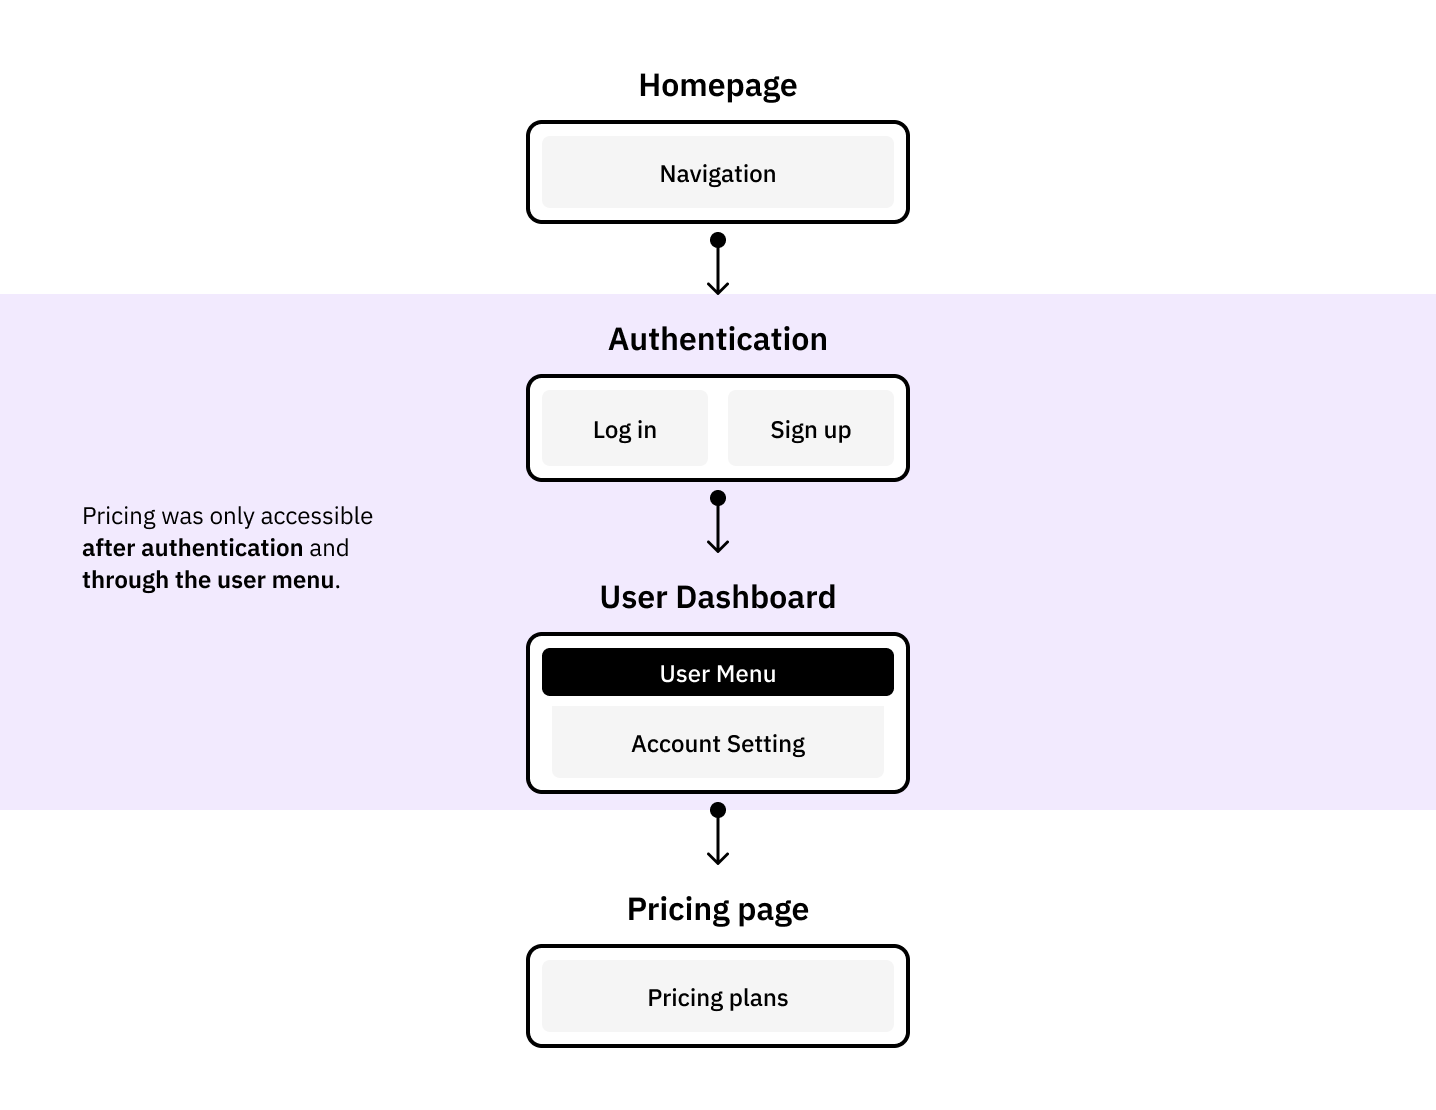
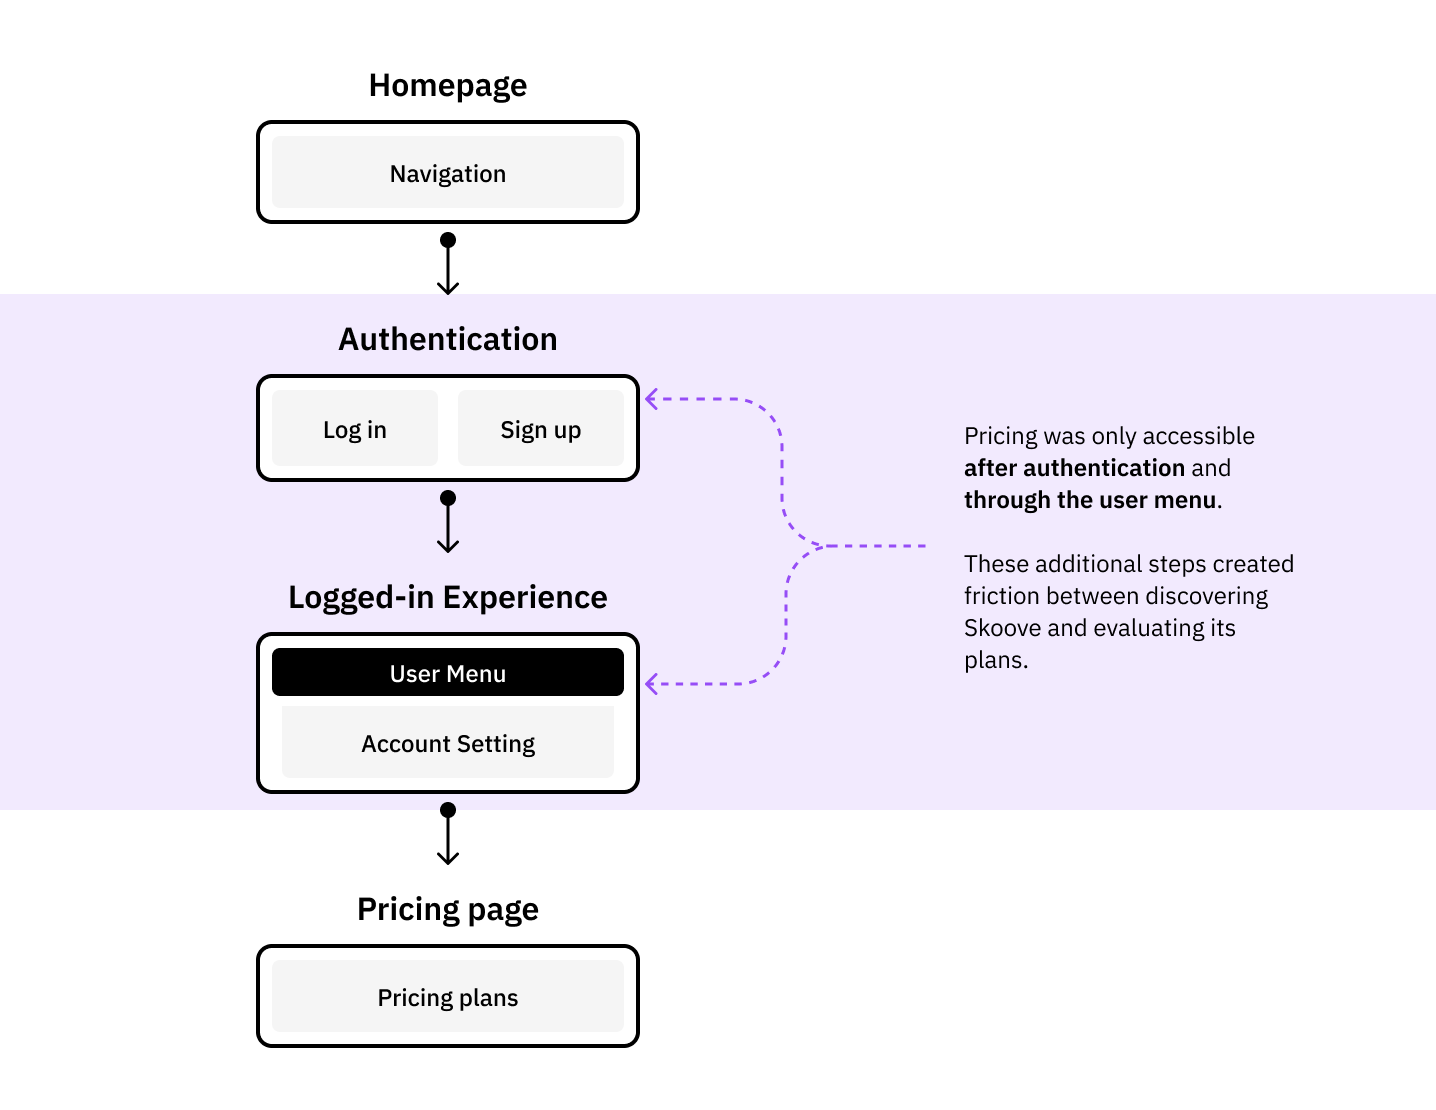
update: update images

diff --git a/public/skoove/index.html b/public/skoove/index.html
@@ -1,5 +1,5 @@
 <!doctype html><html lang=en dir=auto><head><script src="/livereload.js?mindelay=10&amp;v=2&amp;port=1313&amp;path=livereload" data-no-instant defer></script><meta charset=utf-8><meta http-equiv=X-UA-Compatible content="IE=edge"><meta name=viewport content="width=device-width,initial-scale=1,shrink-to-fit=no"><meta name=robots content="noindex, nofollow"><title>From Help Center article to decision-making experience | Verónica De León Hernández</title>
-<meta name=keywords content><meta name=description content="Skoove · Freelance Product Design"><meta name=author content><link rel=canonical href=http://localhost:1313/skoove/><link crossorigin=anonymous href=/assets/css/stylesheet.min.d10e25b67ce10d2e3ab88f6b65627b1e3edafb5dd2099998ecd67e25e0d36b40.css integrity="sha256-0Q4ltnzhDS46uI9rZWJ7Hj7a+13SCZmY7NZ+JeDTa0A=" rel="preload stylesheet" as=style><link rel=icon href=http://localhost:1313/favicon.ico><link rel=apple-touch-icon href=http://localhost:1313/apple-touch-icon.png><link rel=alternate hreflang=en href=http://localhost:1313/skoove/><meta name=twitter:card content="summary_large_image"><meta name=twitter:title content="From Help Center article to decision-making experience | Verónica De León Hernández"><meta name=twitter:description content="Skoove · Freelance Product Design"><meta property="og:title" content="From Help Center article to decision-making experience | Verónica De León Hernández"><meta property="og:description" content="Skoove · Freelance Product Design"><meta property="og:type" content="article"><meta property="og:url" content="http://localhost:1313/skoove/"><meta property="og:image" content="http://localhost:1313/skoove/images/skoove-thumb.png"><meta property="article:section" content="projects"><script type=application/ld+json>{"@context":"https://schema.org","@type":"BreadcrumbList","itemListElement":[{"@type":"ListItem","position":1,"name":"Projects","item":"http://localhost:1313/projects/"},{"@type":"ListItem","position":2,"name":"From Help Center article to decision-making experience","item":"http://localhost:1313/skoove/"}]}</script><script type=application/ld+json>{"@context":"https://schema.org","@type":"BlogPosting","headline":"From Help Center article to decision-making experience | Verónica De León Hernández","name":"From Help Center article to decision-making experience","description":"Skoove · Freelance Product Design","keywords":[],"wordCount":"596","inLanguage":"en","image":"http://localhost:1313/skoove/images/skoove-thumb.png","datePublished":"0001-01-01T00:00:00Z","dateModified":"0001-01-01T00:00:00Z","mainEntityOfPage":{"@type":"WebPage","@id":"http://localhost:1313/skoove/"},"publisher":{"@type":"Organization","name":"Verónica De León Hernández","logo":{"@type":"ImageObject","url":"http://localhost:1313/favicon.ico"}}}</script><meta property="og:title" content="From Help Center article to decision-making experience | Online Portfolio"><meta property="og:description" content="I’m Verónica, a Multidisciplinary Product Designer with 7+ years of experience crafting intuitive, impactful experiences. I bring together design, code, and strategy to turn ideas into real, meaningful products — using tools like JavaScript, Python, and modern web tech."><meta property="og:type" content="website"><meta property="og:url" content="http://localhost:1313/skoove/"><meta property="og:image" content="http://localhost:1313/images/og-image.jpg"><link rel=preconnect href=https://fonts.googleapis.com><link rel=preconnect href=https://fonts.gstatic.com crossorigin><link href="https://fonts.googleapis.com/css2?family=IBM+Plex+Mono:ital,wght@0,100;0,200;0,300;0,400;0,500;0,600;0,700;1,100;1,200;1,300;1,400;1,500;1,600;1,700&family=IBM+Plex+Sans:ital,wght@0,100;0,200;0,300;0,400;0,500;0,600;0,700;1,100;1,200;1,300;1,400;1,500;1,600;1,700&display=swap" rel=stylesheet><noscript><style>#theme-toggle,.top-link{display:none}</style><style>@media(prefers-color-scheme:dark){:root{--theme:rgb(29, 30, 32);--entry:rgb(46, 46, 51);--primary:rgb(218, 218, 219);--secondary:rgb(155, 156, 157);--tertiary-bg:rgb(65, 66, 68);--content:rgb(196, 196, 197);--code-bg:rgb(55, 56, 62);--border:rgb(51, 51, 51)}.list-page{background:var(--theme)}.list-page:not(.dark)::-webkit-scrollbar-track{background:0 0}.list-page:not(.dark)::-webkit-scrollbar-thumb{border-color:var(--theme)}}</style></noscript><script async src="https://www.googletagmanager.com/gtag/js?id=G-LQZ77WLF6C"></script><script>var dnt,doNotTrack=!1;if(!1&&(dnt=navigator.doNotTrack||window.doNotTrack||navigator.msDoNotTrack,doNotTrack=dnt=="1"||dnt=="yes"),!doNotTrack){window.dataLayer=window.dataLayer||[];function gtag(){dataLayer.push(arguments)}gtag("js",new Date),gtag("config","G-LQZ77WLF6C")}</script></head><body class="type-projects kind-page layout-skoove" id=" top"><script data-no-instant>function switchTheme(e){switch(e){case"light":document.body.classList.remove("dark");break;case"dark":document.body.classList.add("dark");break;default:window.matchMedia("(prefers-color-scheme: dark)").matches&&document.body.classList.add("dark")}}function isDarkTheme(){return document.body.className.includes("dark")}function getPrefTheme(){return localStorage.getItem("pref-theme")}function setPrefTheme(e){switchTheme(e),localStorage.setItem("pref-theme",e)}const toggleThemeCallbacks={};toggleThemeCallbacks.main=e=>{setPrefTheme(e?"light":"dark")},window.addEventListener("toggle-theme",function(){const e=isDarkTheme();for(const t in toggleThemeCallbacks)toggleThemeCallbacks[t](e)});function toggleThemeListener(){window.dispatchEvent(new CustomEvent("toggle-theme"))}</script><script>(function(){const t="light",e=getPrefTheme(),n=e||t;switchTheme(n)})()</script><header class=header><nav class=nav><div class=logo><a href=http://localhost:1313/ accesskey=h title="Verónica De León Hernández (Alt + H)">Verónica De León Hernández</a>
-<span class=logo-switches></span></div><ul id=menu><li><a href=http://localhost:1313/ title=Work>Work</a></li><li><a href=http://localhost:1313/about/ title=About>About</a></li><li><a href=https://www.linkedin.com/in/veronicadeleonh/ title=Contact>Contact</a></li></ul></nav></header><main class="main post"><article class=post-single><header class=post-header><h1 class=post-title>From Help Center article to decision-making experience</h1><div class=post-meta></div></header><div class="toc side right"><details open><summary accesskey=c title="(Alt + C)"><span class=details>Table of Contents</span></summary><div class=inner><ul><li><a href=#context aria-label=Context>Context</a></li><li><a href=# aria-label="Pricing existed,but the pricing experience didn't">Pricing existed,</br>but the pricing experience didn't</a></li><li><a href=#designing-for-discovery-and-decision-making aria-label="Designing for discovery and decision-making">Designing for discovery and decision-making</a></li><li><a href=#a-pricing-page-is-more-than-pricing aria-label="A pricing page is more than pricing">A pricing page is more than pricing</a></li><li><a href=#extending-the-design-system aria-label="Extending the design system">Extending the design system</a></li><li><a href=#notes aria-label=Notes>Notes</a></li></ul></div></details></div><div class=post-content><div class=intro-info><p><span class="tag blue text-blue">e-learning</span></p><p class=intro-description>Working closely with marketing stakeholders, I helped transform pricing information into a dedicated decision-making experience for future learners, balancing discoverability, content strategy and conversion goals.</p><div class=intro-details-wrapper><p class="intro-details no-margin-bottom"><span class=fi style=background-image:url(/images/mouse.svg)></span> Senior Product Designer</p><p class="intro-details no-margin-bottom"><span class=fi style=background-image:url(/images/globe.svg)></span> Freelance Project</p><p class="intro-details no-margin-bottom"><span class=fi style=background-image:url(/images/calendar.svg)></span> 2026</p></div></div><p><img loading=lazy src=/skoove/images/skoove-intro.png type alt="Skoove pricing page — hero section"></p><h3 id=context>Context<a hidden class=anchor aria-hidden=true href=#context>¶</a></h3><p>As part of a freelance project for Skoove, I worked on designing a dedicated pricing experience for web visitors. At the time, pricing information for <strong>logged-out users</strong> was primarily accessible through a <strong>Help Center article</strong>. While existing customers could view subscription options after signing in, prospective users had limited visibility into plans, pricing and subscription benefits directly on the website.</p><p>This created an interesting gap between <strong>discovery</strong> and <strong>decision-making</strong>. Users could find Skoove through search engines, articles and marketing pages, but understanding the value of a subscription often required additional steps before reaching the actual purchase flow.</p><a href=images/skoove-context.png class=lightbox><img src=images/skoove-context.png alt="Side-by-side comparison of the logged-in pricing page and the Help Center article for logged-out users"></a><p class=photo-footnote>Side-by-side comparison of the existing pricing page available to logged-in users without a premium subscription and the Help Center pricing article (logged-out experience).</p><hr><h3>Pricing existed,</br>but the pricing experience didn't</h3><p>One of the first things I mapped was the journey for non-premium users. Accessing subscription plans required <strong>creating an account, signing in</strong> and navigating through several screens before reaching the pricing interface.</p><p>At the same time, many visitors arriving from Google were landing on a Help Center article listing prices as plain text. The information was technically available, but the experience lacked <strong>context, comparison, trust signals</strong> and clear paths forward.</p><a href=images/skoove-flow-before.png class=lightbox><img src=images/skoove-flow-before.png alt="User flow showing how non-premium users navigated from landing page to subscription purchase"></a><p class=photo-footnote>Current user flow showing how non-premium users navigated from landing page to subscription purchase.</p><div class="box-notes yellow-background yellow-border" style=margin-bottom:var(--space-4)>One of the most impactful changes was also one of the simplest: introducing a dedicated <strong>Pricing entry</strong> in the <strong>website navigation</strong>, making subscription information accessible without requiring users to create an account first.</div><hr><h3 id=designing-for-discovery-and-decision-making>Designing for discovery and decision-making<a hidden class=anchor aria-hidden=true href=#designing-for-discovery-and-decision-making>¶</a></h3><p>The goal was not simply to create a pricing page. The page needed to serve multiple purposes at once:</p><ul><li>Help visitors understand Skoove's plans and subscription options.</li><li>Communicate value beyond price alone.</li><li>Answer common objections before purchase.</li><li>Improve discoverability through SEO and emerging AI-powered search experiences.</li><li>Create a clearer path from interest to trial.</li></ul><p>This shifted the project from being a <strong>pricing exercise</strong> into a broader <strong>information architecture challenge</strong>.</p><hr><h3 id=a-pricing-page-is-more-than-pricing>A pricing page is more than pricing<a hidden class=anchor aria-hidden=true href=#a-pricing-page-is-more-than-pricing>¶</a></h3><p>Many of the design decisions focused on <strong>reducing uncertainty</strong>.</p><p><strong>Plan comparisons</strong>, <strong>benefit-oriented content</strong>, <strong>social proof</strong> and <strong>FAQs</strong> were introduced to address common questions before they became blockers.</p><p>The project also explored how <strong>visual storytelling</strong> could support the messaging. Early concepts for the feature illustrations were developed as part of the design process, helping communicate the learning experience beyond pricing alone. The final artwork was later refined by Skoove&rsquo;s in-house design team.</p><p>The page became less about displaying <strong>subscription tiers</strong> and more about helping visitors make an <strong>informed decision</strong>.</p><a href=images/skoove-early-explorations.png class=lightbox><img src=images/skoove-early-explorations.png alt="Early layout explorations and annotated design iterations for the Skoove pricing page"></a><p class=photo-footnote>Early layout explorations, marketing proposals and annotated design iterations showing how the page structure evolved.</p><a href=images/skoove-final.png class=lightbox><img src=images/skoove-final.png alt="Final Skoove pricing page design showing plan comparison, benefits, FAQs and conversion sections"></a><p class=photo-footnote>Final pricing page design highlighting plan comparison, benefits, FAQs and conversion-focused sections.</p><hr><h3 id=extending-the-design-system>Extending the design system<a hidden class=anchor aria-hidden=true href=#extending-the-design-system>¶</a></h3><p>The project introduced several <strong>new web components</strong> and required updates to existing navigation patterns. These changes were later incorporated into the <strong>Web UI Kit</strong>, helping establish more consistent experiences across marketing and product-related pages.</p><a href=images/skoove-web-ui-kit.png class=lightbox><img src=images/skoove-web-ui-kit.png alt="New components created for the Skoove pricing project and integrated into the Web UI Kit"></a><p class=photo-footnote>New components created for the project and later integrated into the Web UI Kit.</p><hr><h3 id=notes>Notes<a hidden class=anchor aria-hidden=true href=#notes>¶</a></h3><p>One of the most interesting aspects of this project was seeing how closely content, <strong>discoverability</strong> and <strong>product design</strong> intersect. The challenge wasn&rsquo;t creating a new subscription system, but making an existing one easier to find, understand and trust.</p><a href=images/skoove-navigation.png class=lightbox><img src=images/skoove-navigation.png alt="Before-and-after comparison of the website navigation showing the new Pricing entry"></a><p class=photo-footnote>Before-and-after view of the website navigation showing the introduction of the Pricing entry.</p><p>Sometimes the challenge is not designing a new feature. It&rsquo;s making an existing experience easier to find, understand and trust.</p></div><footer class=post-footer><nav class=paginav><a class=next href=http://localhost:1313/mondly/><span class=title>Next Project
+<meta name=keywords content><meta name=description content="Skoove · Freelance Product Design"><meta name=author content><link rel=canonical href=http://localhost:1313/skoove/><link crossorigin=anonymous href=/assets/css/stylesheet.min.d10e25b67ce10d2e3ab88f6b65627b1e3edafb5dd2099998ecd67e25e0d36b40.css integrity="sha256-0Q4ltnzhDS46uI9rZWJ7Hj7a+13SCZmY7NZ+JeDTa0A=" rel="preload stylesheet" as=style><link rel=icon href=http://localhost:1313/favicon.ico><link rel=apple-touch-icon href=http://localhost:1313/apple-touch-icon.png><link rel=alternate hreflang=en href=http://localhost:1313/skoove/><meta name=twitter:card content="summary_large_image"><meta name=twitter:title content="From Help Center article to decision-making experience | Verónica De León Hernández"><meta name=twitter:description content="Skoove · Freelance Product Design"><meta property="og:title" content="From Help Center article to decision-making experience | Verónica De León Hernández"><meta property="og:description" content="Skoove · Freelance Product Design"><meta property="og:type" content="article"><meta property="og:url" content="http://localhost:1313/skoove/"><meta property="og:image" content="http://localhost:1313/skoove/images/skoove-thumb.png"><meta property="article:section" content="projects"><script type=application/ld+json>{"@context":"https://schema.org","@type":"BreadcrumbList","itemListElement":[{"@type":"ListItem","position":1,"name":"Projects","item":"http://localhost:1313/projects/"},{"@type":"ListItem","position":2,"name":"From Help Center article to decision-making experience","item":"http://localhost:1313/skoove/"}]}</script><script type=application/ld+json>{"@context":"https://schema.org","@type":"BlogPosting","headline":"From Help Center article to decision-making experience | Verónica De León Hernández","name":"From Help Center article to decision-making experience","description":"Skoove · Freelance Product Design","keywords":[],"wordCount":"597","inLanguage":"en","image":"http://localhost:1313/skoove/images/skoove-thumb.png","datePublished":"0001-01-01T00:00:00Z","dateModified":"0001-01-01T00:00:00Z","mainEntityOfPage":{"@type":"WebPage","@id":"http://localhost:1313/skoove/"},"publisher":{"@type":"Organization","name":"Verónica De León Hernández","logo":{"@type":"ImageObject","url":"http://localhost:1313/favicon.ico"}}}</script><meta property="og:title" content="From Help Center article to decision-making experience | Online Portfolio"><meta property="og:description" content="I’m Verónica, a Multidisciplinary Product Designer with 7+ years of experience crafting intuitive, impactful experiences. I bring together design, code, and strategy to turn ideas into real, meaningful products — using tools like JavaScript, Python, and modern web tech."><meta property="og:type" content="website"><meta property="og:url" content="http://localhost:1313/skoove/"><meta property="og:image" content="http://localhost:1313/images/og-image.jpg"><link rel=preconnect href=https://fonts.googleapis.com><link rel=preconnect href=https://fonts.gstatic.com crossorigin><link href="https://fonts.googleapis.com/css2?family=IBM+Plex+Mono:ital,wght@0,100;0,200;0,300;0,400;0,500;0,600;0,700;1,100;1,200;1,300;1,400;1,500;1,600;1,700&family=IBM+Plex+Sans:ital,wght@0,100;0,200;0,300;0,400;0,500;0,600;0,700;1,100;1,200;1,300;1,400;1,500;1,600;1,700&display=swap" rel=stylesheet><noscript><style>#theme-toggle,.top-link{display:none}</style><style>@media(prefers-color-scheme:dark){:root{--theme:rgb(29, 30, 32);--entry:rgb(46, 46, 51);--primary:rgb(218, 218, 219);--secondary:rgb(155, 156, 157);--tertiary-bg:rgb(65, 66, 68);--content:rgb(196, 196, 197);--code-bg:rgb(55, 56, 62);--border:rgb(51, 51, 51)}.list-page{background:var(--theme)}.list-page:not(.dark)::-webkit-scrollbar-track{background:0 0}.list-page:not(.dark)::-webkit-scrollbar-thumb{border-color:var(--theme)}}</style></noscript><script async src="https://www.googletagmanager.com/gtag/js?id=G-LQZ77WLF6C"></script><script>var dnt,doNotTrack=!1;if(!1&&(dnt=navigator.doNotTrack||window.doNotTrack||navigator.msDoNotTrack,doNotTrack=dnt=="1"||dnt=="yes"),!doNotTrack){window.dataLayer=window.dataLayer||[];function gtag(){dataLayer.push(arguments)}gtag("js",new Date),gtag("config","G-LQZ77WLF6C")}</script></head><body class="type-projects kind-page layout-skoove" id=" top"><script data-no-instant>function switchTheme(e){switch(e){case"light":document.body.classList.remove("dark");break;case"dark":document.body.classList.add("dark");break;default:window.matchMedia("(prefers-color-scheme: dark)").matches&&document.body.classList.add("dark")}}function isDarkTheme(){return document.body.className.includes("dark")}function getPrefTheme(){return localStorage.getItem("pref-theme")}function setPrefTheme(e){switchTheme(e),localStorage.setItem("pref-theme",e)}const toggleThemeCallbacks={};toggleThemeCallbacks.main=e=>{setPrefTheme(e?"light":"dark")},window.addEventListener("toggle-theme",function(){const e=isDarkTheme();for(const t in toggleThemeCallbacks)toggleThemeCallbacks[t](e)});function toggleThemeListener(){window.dispatchEvent(new CustomEvent("toggle-theme"))}</script><script>(function(){const t="light",e=getPrefTheme(),n=e||t;switchTheme(n)})()</script><header class=header><nav class=nav><div class=logo><a href=http://localhost:1313/ accesskey=h title="Verónica De León Hernández (Alt + H)">Verónica De León Hernández</a>
+<span class=logo-switches></span></div><ul id=menu><li><a href=http://localhost:1313/ title=Work>Work</a></li><li><a href=http://localhost:1313/about/ title=About>About</a></li><li><a href=https://www.linkedin.com/in/veronicadeleonh/ title=Contact>Contact</a></li></ul></nav></header><main class="main post"><article class=post-single><header class=post-header><h1 class=post-title>From Help Center article to decision-making experience</h1><div class=post-meta></div></header><div class="toc side right"><details open><summary accesskey=c title="(Alt + C)"><span class=details>Table of Contents</span></summary><div class=inner><ul><li><a href=#context aria-label=Context>Context</a></li><li><a href=# aria-label="Pricing existed,but the pricing experience didn't">Pricing existed,</br>but the pricing experience didn't</a></li><li><a href=#designing-for-discovery-and-decision-making aria-label="Designing for discovery and decision-making">Designing for discovery and decision-making</a></li><li><a href=#a-pricing-page-is-more-than-pricing aria-label="A pricing page is more than pricing">A pricing page is more than pricing</a></li><li><a href=#extending-the-design-system aria-label="Extending the design system">Extending the design system</a></li><li><a href=#notes aria-label=Notes>Notes</a></li></ul></div></details></div><div class=post-content><div class=intro-info><p><span class="tag blue text-blue">e-learning</span></p><p class=intro-description>Working closely with marketing stakeholders, I helped transform pricing information into a dedicated decision-making experience for future learners, balancing discoverability, content strategy and conversion goals.</p><div class=intro-details-wrapper><p class="intro-details no-margin-bottom"><span class=fi style=background-image:url(/images/mouse.svg)></span> Senior Product Designer</p><p class="intro-details no-margin-bottom"><span class=fi style=background-image:url(/images/globe.svg)></span> Freelance Project</p><p class="intro-details no-margin-bottom"><span class=fi style=background-image:url(/images/calendar.svg)></span> 2026</p></div></div><p><img loading=lazy src=/skoove/images/skoove-intro.png type alt="Skoove pricing page — hero section"></p><h3 id=context>Context<a hidden class=anchor aria-hidden=true href=#context>¶</a></h3><p>As part of a freelance project for Skoove, I worked on designing a dedicated pricing experience for web visitors. At the time, pricing information for <strong>logged-out users</strong> was primarily accessible through a <strong>Help Center article</strong>. While existing customers could view subscription options after signing in, prospective users had limited visibility into plans, pricing and subscription benefits directly on the website.</p><p>This created an interesting gap between <strong>discovery</strong> and <strong>decision-making</strong>. Users could find Skoove through search engines, articles and marketing pages, but understanding the value of a subscription often required additional steps before reaching the actual purchase flow.</p><a href=images/skoove-context.png class=lightbox><img src=images/skoove-context.png alt="Side-by-side comparison of the logged-in pricing page and the Help Center article for logged-out users"></a><p class=photo-footnote>Side-by-side comparison of the existing pricing page available to logged-in users without a premium subscription and the Help Center pricing article (logged-out experience).</p><hr><h3>Pricing existed,</br>but the pricing experience didn't</h3><p>One of the first things I mapped was the journey for non-premium users. Accessing subscription plans required <strong>creating an account, signing in</strong> and navigating through several screens before reaching the pricing interface.</p><p>At the same time, many visitors arriving from Google were landing on a Help Center article listing prices as plain text. The information was technically available, but the experience lacked <strong>context, comparison, trust signals</strong> and clear paths forward.</p><a href=images/skoove-flow-before.png class=lightbox><img src=images/skoove-flow-before.png alt="User flow showing how non-premium users navigated from landing page to subscription purchase"></a><p class=photo-footnote>Current user flow showing how non-premium users navigated from landing page to subscription purchase.</p><div class="box-notes yellow-background yellow-border" style=margin-bottom:var(--space-4)>One of the most impactful changes was also one of the simplest: introducing a dedicated <strong>Pricing entry</strong> in the <strong>website navigation</strong>, making subscription information accessible without requiring users to create an account first.</div><hr><h3 id=designing-for-discovery-and-decision-making>Designing for discovery and decision-making<a hidden class=anchor aria-hidden=true href=#designing-for-discovery-and-decision-making>¶</a></h3><p>The goal was not simply to create a pricing page. The page needed to serve multiple purposes at once:</p><ul><li>Help visitors understand Skoove's plans and subscription options.</li><li>Communicate value beyond price alone.</li><li>Answer common objections before purchase.</li><li>Improve discoverability through SEO and emerging AI-powered search experiences.</li><li>Create a clearer path from interest to trial.</li></ul><p>This shifted the project from being a <strong>pricing exercise</strong> into a broader <strong>information architecture challenge</strong>.</p><hr><h3 id=a-pricing-page-is-more-than-pricing>A pricing page is more than pricing<a hidden class=anchor aria-hidden=true href=#a-pricing-page-is-more-than-pricing>¶</a></h3><p>Many of the design decisions focused on <strong>reducing uncertainty</strong>.</p><p><strong>Plan comparisons</strong>, <strong>benefit-oriented content</strong>, <strong>social proof</strong> and <strong>FAQs</strong> were introduced to address common questions before they became blockers.</p><p>The project also explored how <strong>visual storytelling</strong> could support the messaging. Early concepts for the feature illustrations were developed as part of the design process, helping communicate the learning experience beyond pricing alone. The final artwork was later refined by Skoove&rsquo;s in-house design team.</p><p>The page became less about displaying <strong>subscription tiers</strong> and more about helping visitors make an <strong>informed decision</strong>.</p><a href=images/skoove-early-explorations.png class=lightbox><img src=images/skoove-early-explorations.png alt="Early layout explorations and annotated design iterations for the Skoove pricing page"></a><p class=photo-footnote>Early layout explorations, marketing proposals and annotated design iterations showing how the page structure evolved.</p><a href=images/skoove-final.png class=lightbox><img src=images/skoove-final.png alt="Final Skoove pricing page design showing plan comparison, benefits, FAQs and conversion sections"></a><p class=photo-footnote>Final pricing page design highlighting plan comparison, benefits, FAQs and conversion-focused sections.</p><hr><h3 id=extending-the-design-system>Extending the design system<a hidden class=anchor aria-hidden=true href=#extending-the-design-system>¶</a></h3><p>The project introduced several <strong>new web components</strong> and required updates to existing navigation patterns. These changes were later incorporated into the <strong>Web UI Kit</strong>, helping establish more consistent experiences across marketing and product-related pages.</p><a href=images/skoove-web-ui-kit.png class=lightbox><img src=images/skoove-web-ui-kit.png alt="New components created for the Skoove pricing project and integrated into the Web UI Kit"></a><p class=photo-footnote>New components created for the project and later integrated into the Web UI Kit.</p><hr><h3 id=notes>Notes<a hidden class=anchor aria-hidden=true href=#notes>¶</a></h3><p>One of the most interesting aspects of this project was seeing how closely content, <strong>discoverability</strong> and <strong>product design</strong> intersect. The challenge wasn&rsquo;t creating a new subscription system, but making an existing one easier to find, understand and trust.</p><a href=images/skoove-navigation.png class=lightbox><img src=images/skoove-navigation.png alt="Before-and-after comparison of the website navigation showing the new Pricing entry"></a><p class=photo-footnote>Adding Pricing to the main navigation made subscription information easier to discover before sign-up.</p><p>Sometimes the challenge is not designing a new feature. It&rsquo;s making an existing experience easier to find, understand and trust.</p></div><footer class=post-footer><nav class=paginav><a class=next href=http://localhost:1313/mondly/><span class=title>Next Project
 &nbsp;<svg width="24" height="24" viewBox="0 0 24 24" fill="none" stroke="currentcolor" stroke-width="2" stroke-linecap="round" stroke-linejoin="round" class="feather feather-arrow-right" style="user-select:text"><line x1="5" y1="12" x2="19" y2="12" style="user-select:text"/><polyline points="12 5 19 12 12 19" style="user-select:text"/></svg></span><br><span>Designing growth experiences at Mondly</span></a></nav></footer><div class=comments-separator></div></article></main><link href=https://cdn.jsdelivr.net/npm/glightbox/dist/css/glightbox.min.css rel=stylesheet><script src=https://cdn.jsdelivr.net/npm/glightbox/dist/js/glightbox.min.js></script><script>document.addEventListener("DOMContentLoaded",function(){const e=GLightbox({selector:".lightbox",skin:"styled"})})</script><footer class=footer><span>&copy; 2026 <a href=http://localhost:1313/>Verónica De León Hernández</a></span><p>Coded with ❤️</p></footer><a href=#top aria-label="go to top" title="Go to Top (Alt + G)" class=top-link id=top-link accesskey=g><svg viewBox="0 0 12 6" fill="currentcolor"><path d="M12 6H0l6-6z"/></svg>
 </a><script>(function(){const t="1"=="1";if(t)return;let e=document.getElementById("theme-toggle");e.removeEventListener("click",toggleThemeListener),e.addEventListener("click",toggleThemeListener)})()</script><script>(function(){let e=document.getElementById("menu");e&&(e.scrollLeft=localStorage.getItem("menu-scroll-position"),e.onscroll=function(){localStorage.setItem("menu-scroll-position",e.scrollLeft)});const t=""=="1",n=""=="1";if(window.matchMedia("(prefers-reduced-motion: reduce)").matches||t||n)return;document.querySelectorAll('a[href^="#"]').forEach(e=>{e.addEventListener("click",function(e){e.preventDefault();var t=this.getAttribute("href").substr(1);document.querySelector(`[id='${decodeURIComponent(t)}']`).scrollIntoView({behavior:"smooth"}),t==="top"?history.replaceState(null,null," "):history.pushState(null,null,`#${t}`)})})})()</script><script>var mybutton=document.getElementById("top-link");window.onscroll=function(){document.body.scrollTop>800||document.documentElement.scrollTop>800?(mybutton.style.visibility="visible",mybutton.style.opacity="1"):(mybutton.style.visibility="hidden",mybutton.style.opacity="0")}</script><script>if(window.scrollListeners)for(const e of scrollListeners)window.removeEventListener("scroll",e);window.scrollListeners=[]</script><script src=/js/medium-zoom.min.js data-no-instant></script><script>(function(){const a="1"=="1";if(!a)return;if(!document.querySelector(".toc")){console.log("no toc found, ignore toc scroll");return}const r=window.scrollListeners,t=document.querySelectorAll("h1[id],h2[id],h3[id],h4[id],h5[id]"),n="active";let e=t[0];o(e).classList.add(n);const c=()=>{const s=[];for(const e of t)if(l(e)<5)s.push(e);else break;s.length>0?newActiveHeading=s[s.length-1]:newActiveHeading=t[0],e!=newActiveHeading&&(o(e).classList.remove(n),e=newActiveHeading,o(e).classList.add(n))};let s=null;const i=()=>{s!==null&&clearTimeout(s),s=setTimeout(c,50)};window.addEventListener("scroll",i,!1),r.push(i);function o(e){const t=encodeURI(e.getAttribute("id")).toLowerCase();return document.querySelector(`.toc ul li a[href="#${t}"]`)}function l(e){if(!e.getClientRects().length)return 0;let t=e.getBoundingClientRect();return t.top}})()</script></body></html>

diff --git a/content/projects/skoove/index.md b/content/projects/skoove/index.md
@@ -124,6 +124,6 @@ One of the most interesting aspects of this project was seeing how closely conte
   <img src="images/skoove-navigation.png" alt="Before-and-after comparison of the website navigation showing the new Pricing entry">
 </a>
 
-<p class="photo-footnote">Before-and-after view of the website navigation showing the introduction of the Pricing entry.</p>
+<p class="photo-footnote">Adding Pricing to the main navigation made subscription information easier to discover before sign-up.</p>
 
 Sometimes the challenge is not designing a new feature. It's making an existing experience easier to find, understand and trust.